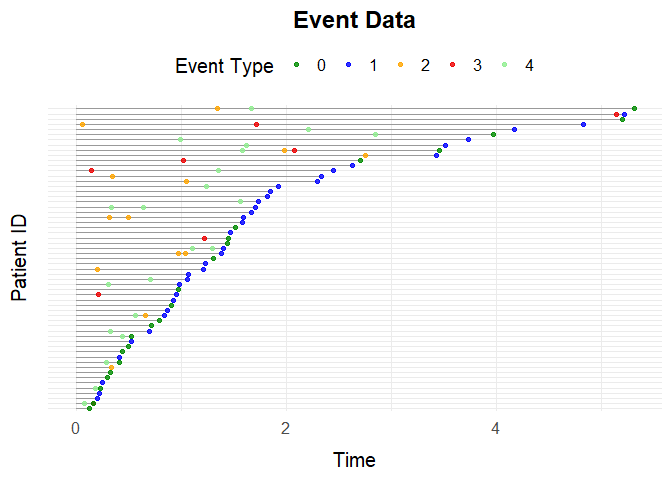
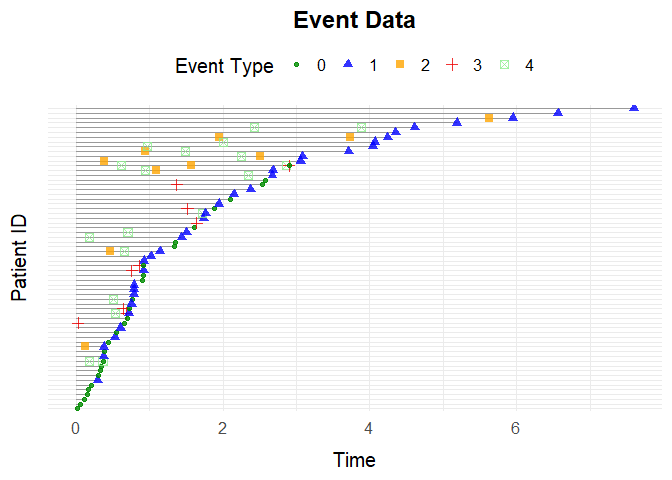
New readme

diff --git a/README.md b/README.md
@@ -101,14 +101,28 @@ at_risk <- function(events) {
     as.numeric(events[3] < 2),   # Event 2 can occur twice
     as.numeric(events[4] < 1),   # Event 3 can occur once
     as.numeric(events[5] < 2)))  # Event 4 can occur twice
-  }
+}
+```
+
+Optionally one can define an function to specify risk windows as a
+function of covariates:
+
+``` r
+# at risk function
+at_risk_cov <- function(covariates) {
+  return(c(
+    1,1,                               # The covariates do not change the risk of event 1 and 2
+    as.numeric(covariates[1] < 0.5),   # Only at risk of event 3 if L0 < 0.5
+    as.numeric(covariates[2] == 1),    # Only at risk of event 4 if A0 = 1
+    1))                                # The covariates do not change the risk of event 4
+}
 ```
 
 Simulate data for 5000 individuals:
 
 ``` r
 set.seed(973)
-data <- simEventData(N = 5000, beta = beta, add_cov = add_cov, at_risk = at_risk)
+data <- simEventData(N = 5000, beta = beta, add_cov = add_cov, at_risk = at_risk, at_risk_cov = at_risk_cov)
 ```
 
 Preview the simulated data:
@@ -118,12 +132,12 @@ head(data)
 #> Key: <ID>
 #>       ID      Time Delta        L0    A0    Z1         Z2    N0    N1    N2
 #>    <int>     <num> <int>     <num> <num> <num>      <num> <num> <num> <num>
-#> 1:     1 1.2416160     4 0.8169060     1     0  0.2555876     0     0     0
-#> 2:     1 1.9263014     1 0.8169060     1     0  0.2555876     0     1     0
-#> 3:     2 0.8667134     1 0.7893660     1     0 -0.6972059     0     1     0
-#> 4:     3 0.7956896     0 0.8561421     1     0  0.7786811     1     0     0
-#> 5:     4 1.0532263     2 0.2246642     0     0 -0.7287170     0     0     1
-#> 6:     4 2.2914281     1 0.2246642     0     0 -0.7287170     0     1     1
+#> 1:     1 0.5067418     4 0.0482511     1     0  0.9036369     0     0     0
+#> 2:     1 0.7741479     0 0.0482511     1     0  0.9036369     1     0     0
+#> 3:     2 0.7952969     1 0.2186699     0     0  1.0631460     0     1     0
+#> 4:     3 4.3490086     1 0.5021846     0     0 -0.2266280     0     1     0
+#> 5:     4 0.1689083     0 0.4053148     1     0  1.2534397     1     0     0
+#> 6:     5 1.5183445     3 0.3986500     1     0 -0.9204445     0     0     0
 #>       N3    N4
 #>    <num> <num>
 #> 1:     0     1
@@ -131,7 +145,7 @@ head(data)
 #> 3:     0     0
 #> 4:     0     0
 #> 5:     0     0
-#> 6:     0     0
+#> 6:     1     0
 ```
 
 ### Formatting Data for Cox Regression
@@ -144,20 +158,20 @@ data_int <- IntFormatData(data, N_cols = 8:12)
 head(data_int)
 #>       ID      Time Delta        L0    A0    Z1         Z2    N0    N1    N2
 #>    <int>     <num> <int>     <num> <num> <num>      <num> <num> <num> <num>
-#> 1:     1 1.2416160     4 0.8169060     1     0  0.2555876     0     0     0
-#> 2:     1 1.9263014     1 0.8169060     1     0  0.2555876     0     0     0
-#> 3:     2 0.8667134     1 0.7893660     1     0 -0.6972059     0     0     0
-#> 4:     3 0.7956896     0 0.8561421     1     0  0.7786811     0     0     0
-#> 5:     4 1.0532263     2 0.2246642     0     0 -0.7287170     0     0     0
-#> 6:     4 2.2914281     1 0.2246642     0     0 -0.7287170     0     0     1
-#>       N3    N4     k   tstart     tstop
-#>    <num> <num> <int>    <num>     <num>
-#> 1:     0     0     1 0.000000 1.2416160
-#> 2:     0     1     2 1.241616 1.9263014
-#> 3:     0     0     1 0.000000 0.8667134
-#> 4:     0     0     1 0.000000 0.7956896
-#> 5:     0     0     1 0.000000 1.0532263
-#> 6:     0     0     2 1.053226 2.2914281
+#> 1:     1 0.5067418     4 0.0482511     1     0  0.9036369     0     0     0
+#> 2:     1 0.7741479     0 0.0482511     1     0  0.9036369     0     0     0
+#> 3:     2 0.7952969     1 0.2186699     0     0  1.0631460     0     0     0
+#> 4:     3 4.3490086     1 0.5021846     0     0 -0.2266280     0     0     0
+#> 5:     4 0.1689083     0 0.4053148     1     0  1.2534397     0     0     0
+#> 6:     5 1.5183445     3 0.3986500     1     0 -0.9204445     0     0     0
+#>       N3    N4     k    tstart     tstop
+#>    <num> <num> <int>     <num>     <num>
+#> 1:     0     0     1 0.0000000 0.5067418
+#> 2:     0     1     2 0.5067418 0.7741479
+#> 3:     0     0     1 0.0000000 0.7952969
+#> 4:     0     0     1 0.0000000 4.3490086
+#> 5:     0     0     1 0.0000000 0.1689083
+#> 6:     0     0     1 0.0000000 1.5183445
 ```
 
 Fit Cox models for processes 0 and 4:
@@ -170,22 +184,22 @@ survfit0 <- coxph(Surv(tstart, tstop, Delta == 0) ~ L0 + A0 + Z1 + Z2 + N2 + N3 
                   data = data_int)
 
 # Process 4
-survfit4 <- coxph(Surv(tstart, tstop, Delta == 4) ~ L0 + A0 + Z1 + Z2 + N2 + N3 + N4, 
-                  data = data_int[N4 < 2])
+survfit4 <- coxph(Surv(tstart, tstop, Delta == 4) ~ L0 + Z1 + Z2 + N2 + N3 + N4, 
+                  data = data_int[(N4 < 2) & (A0 == 1)])
 ```
 
 Visualize estimated coefficients alongside true values:
 
 ``` r
 CIs <- cbind("Par" = c(paste0(rownames(confint(survfit0)), "_N0"), 
-                       paste0(rownames(confint(survfit0)), "_N4")), 
+                       paste0(rownames(confint(survfit4)), "_N4")), 
              rbind(confint(survfit0), confint(survfit4)))
 
 rownames(CIs) <- NULL
 colnames(CIs) <- c("Par", "Lower", "Upper")
 CIs <- data.table(CIs)
 CIs[, True_val := c(beta[-c(5,6),1],
-                    beta[-c(5,6),5])]
+                    beta[-c(2,5,6),5])]
 
 CIs$Lower <- as.numeric(CIs$Lower)
 CIs$Upper <- as.numeric(CIs$Upper)
@@ -200,7 +214,7 @@ pp <- ggplot(data = CIs)+
 pp
 ```
 
-<img src="man/figures/README-unnamed-chunk-11-1.png" width="100%" />
+<img src="man/figures/README-unnamed-chunk-12-1.png" width="100%" />
 
 ### Visualize Event Histories
 
@@ -210,7 +224,7 @@ Plot the first 100 individuals’ event histories:
 plotEventData(data[1:100,])
 ```
 
-<img src="man/figures/README-unnamed-chunk-12-1.png" width="100%" />
+<img src="man/figures/README-unnamed-chunk-13-1.png" width="100%" />
 
 ### Using override_beta
 
@@ -230,6 +244,15 @@ data <- simEventData(N = 1000, beta = beta, add_cov = add_cov, at_risk = at_risk
                      override_beta = list("N2 > 1" = c("N1" = 2)))
 ```
 
+Additionally the argument can be used to specify interaction effects,
+e.g., if we want an interaction effect of 1 between L0 and N1 on N2 we
+can specify the argument:
+
+``` r
+data <- simEventData(N = 1000, beta = beta, add_cov = add_cov, at_risk = at_risk,
+                     override_beta =list("L0 * N1" = c("N2" = 1)))
+```
+
 ## Example 2: Survival Data with `simSurvData`
 
 The function simSurvData allows you to simulate survival data for
@@ -243,7 +266,7 @@ data <- simSurvData(100)
 plotEventData(data, title = "Survival Data")
 ```
 
-<img src="man/figures/README-unnamed-chunk-15-1.png" width="100%" />
+<img src="man/figures/README-unnamed-chunk-17-1.png" width="100%" />
 
 You can specify how baseline covariates and affect the risk of censoring
 and death through the matrix. For example:
@@ -274,7 +297,7 @@ data <- simSurvData(100, beta = beta, eta = eta, nu = nu)
 plotEventData(data, title = "Survival Data")
 ```
 
-<img src="man/figures/README-unnamed-chunk-18-1.png" width="100%" />
+<img src="man/figures/README-unnamed-chunk-20-1.png" width="100%" />
 
 ## Example 3: Competing Risk Data with `simCRdata`
 
@@ -285,7 +308,7 @@ data <- simCRdata(100)
 plotEventData(data, title = "Competing Risk Data")
 ```
 
-<img src="man/figures/README-unnamed-chunk-19-1.png" width="100%" />
+<img src="man/figures/README-unnamed-chunk-21-1.png" width="100%" />
 
 ## Example 4: Health Care Data with `simDisease`
 
@@ -316,7 +339,7 @@ data <- simDisease(N = 100,
 plotEventData(data, title = "Disease data")
 ```
 
-<img src="man/figures/README-unnamed-chunk-21-1.png" width="100%" />
+<img src="man/figures/README-unnamed-chunk-23-1.png" width="100%" />
 
 ## Example 5: Health Care Data with `simTreatment`
 
@@ -354,7 +377,7 @@ Plot
 plotEventData(data, title = "Treatment setting")
 ```
 
-<img src="man/figures/README-unnamed-chunk-25-1.png" width="100%" />
+<img src="man/figures/README-unnamed-chunk-27-1.png" width="100%" />
 
 ## Example 5: Time Varying Effects with `simEventTV`
 
@@ -377,4 +400,4 @@ data <- simEventTV(N = 1000, t_prime = t_prime, tv_eff = tv_eff, eta = eta,
 plotEventData(data)
 ```
 
-<img src="man/figures/README-unnamed-chunk-26-1.png" width="100%" />
+<img src="man/figures/README-unnamed-chunk-28-1.png" width="100%" />
